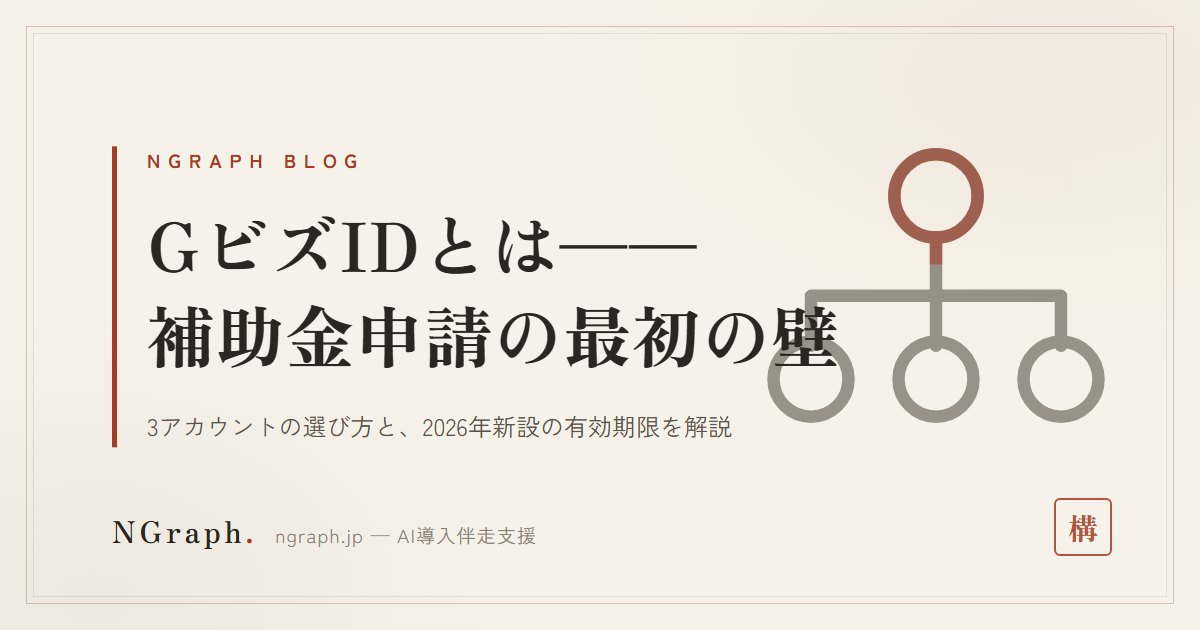
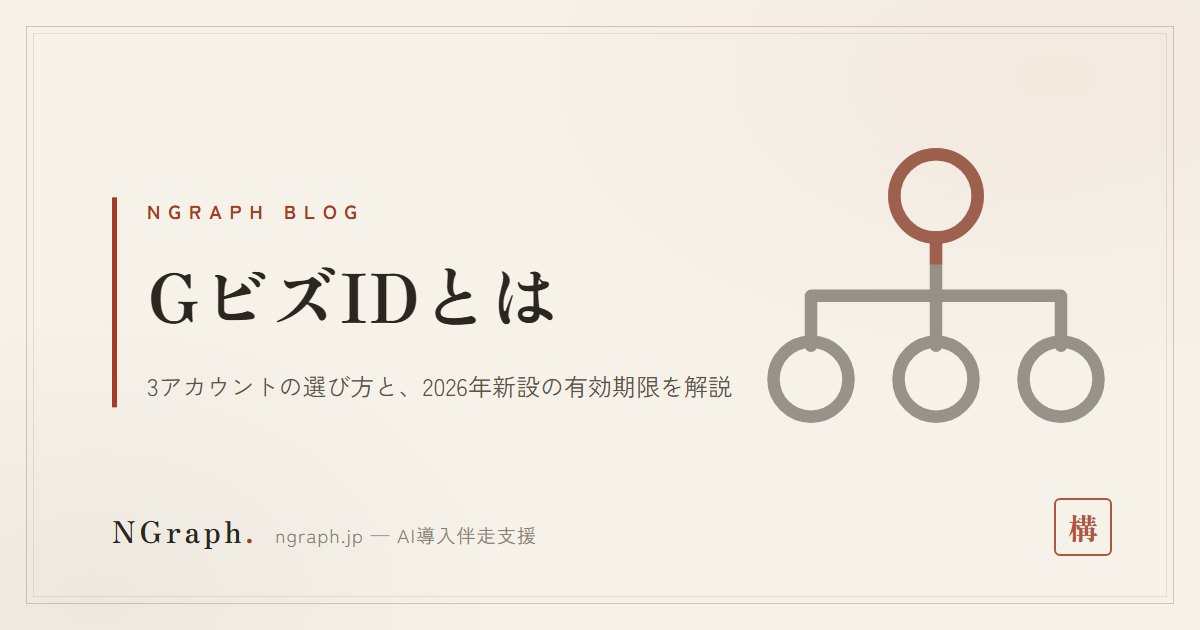
blog: GビズID記事 アイキャッチ再生成と表記修正

diff --git a/blog/20260725-gbizid.html b/blog/20260725-gbizid.html
@@ -149,15 +149,15 @@
 <p>法人の代表者、または個人事業主本人であれば、まず取得すべきはGビズIDプライムです。プライムは審査を経る分、行政サービスの全機能を無償で利用でき、従業員向けのメンバーアカウントを作成する権限も持ちます。個人事業主もオンラインでGビズIDプライムを申請・発行できるようになっているため、法人でなければ取れないという制約はありません。</p>
 <p>すでに社内の誰かがプライムを取得している組織であれば、実務を担当する従業員はメンバーを選びます。メンバーはプライムまたは管理者権限を持つメンバーが作成し、利用者本人が承諾する形で発行されるため、書類審査は不要です。エントリーは、審査なしでオンライン即時発行できる手軽さが利点ですが、認証がID・パスワードのみの一要素であることに加え、利用できる行政サービスが限定されるため、補助金の電子申請のように重要な手続きにはプライムかメンバーを使うのが基本です。</p>
 
-<h2>発行までの日数はなぜ「即日」と「2〜3週間」で情報が割れるのか</h2>
-<p>GビズIDプライムの発行日数について検索すると、「最短即日」という情報と、「2〜3週間程度かかる」といった情報の両方が見つかり、どちらを信じればよいか分かりにくくなっています。この差は、申請方式の違いと、情報の新旧の両方が絡んでいます。</p>
+<h2>発行までの日数はなぜ「即日」と「数週間」で情報が割れるのか</h2>
+<p>GビズIDプライムの発行日数について検索すると、「最短即日」という情報と、「数週間かかる」といった情報の両方が見つかり、どちらを信じればよいか分かりにくくなっています。この差は、申請方式の違いと、情報の新旧の両方が絡んでいます。</p>
 <div class="a-table-wrap"><table class="a-table">
 <tr><th>申請方式</th><th>必要なもの</th><th>所要日数の目安</th></tr>
 <tr><td>オンライン申請</td><td>マイナンバーカード＋読み取り可能なスマートフォン＋暗証番号2種</td><td>最短即日</td></tr>
 <tr><td>書類申請</td><td>申請書類の郵送等</td><td>最大1か月</td></tr>
 </table></div>
 <p>まず方式そのものが違います。マイナンバーカードと、それを読み取れるスマートフォンを使ったオンライン申請なら、審査は最短で即日完了します。一方、マイナンバーカードを持っていない、あるいはオンライン環境が整っていない場合に選ぶ書類申請は、郵送のやり取りが挟まる分、最大1か月ほどかかります。「即日」と「1か月近く」という情報が両方存在するのは、まずこの方式の違いによるものです。</p>
-<p>加えて、2026年7月9日から、法人代表者によるオンライン審査は24時間365日、速やかに行われるようになりました。つまり以前は曜日や時間帯によって審査の着手が翌営業日以降にずれ込むことがあったのに対し、現在はいつ申請しても常時ほぼ即日で審査が進むようになったということです。「2〜3週間かかった」という体験談や情報を見かけた場合、それは書類申請だった可能性に加えて、この常時審査化より前の体験である可能性も考えられます。日数の情報を見るときは、「オンラインか書類か」「いつの情報か」の2点を確認することが、実態とのズレを避ける鍵になります。</p>
+<p>加えて、2026年7月9日から、法人代表者によるオンライン審査は24時間365日、速やかに行われるようになりました。つまり以前は曜日や時間帯によって審査の着手が翌営業日以降にずれ込むことがあったのに対し、現在はいつ申請しても常時ほぼ即日で審査が進むようになったということです。「数週間かかった」という体験談や情報を見かけた場合、それは書類申請だった可能性に加えて、この常時審査化より前の体験である可能性も考えられます。日数の情報を見るときは、「オンラインか書類か」「いつの情報か」の2点を確認することが、実態とのズレを避ける鍵になります。</p>
 
 <h2>補助金申請とGビズID——省力化・AI導入補助金の"前に"必要</h2>
 <p>補助金の電子申請システム「jGrants（Jグランツ）」は、国の補助金をオンラインで申請できる公式の電子申請システムです。jGrantsへのログインにはGビズIDプライムが必要で、これは特定の補助金に限った話ではなく、電子申請を採用する補助金制度全般に共通する前提です。当ブログで扱った<a href="/blog/20260725-shoryokuka-subsidy.html">中小企業省力化投資補助金 第7回（2026年7月31日締切）</a>や、<a href="/blog/20260724-ai-subsidy-2026.html">デジタル化・AI導入補助金2026</a>も、申請にはGビズIDプライムのアカウントが必要になります。制度ごとの補助率・上限額・締切といった詳しい内容は各記事に譲りますが、共通しているのは「GビズIDが無ければ、そもそも電子申請の入り口に立てない」という点です。</p>
